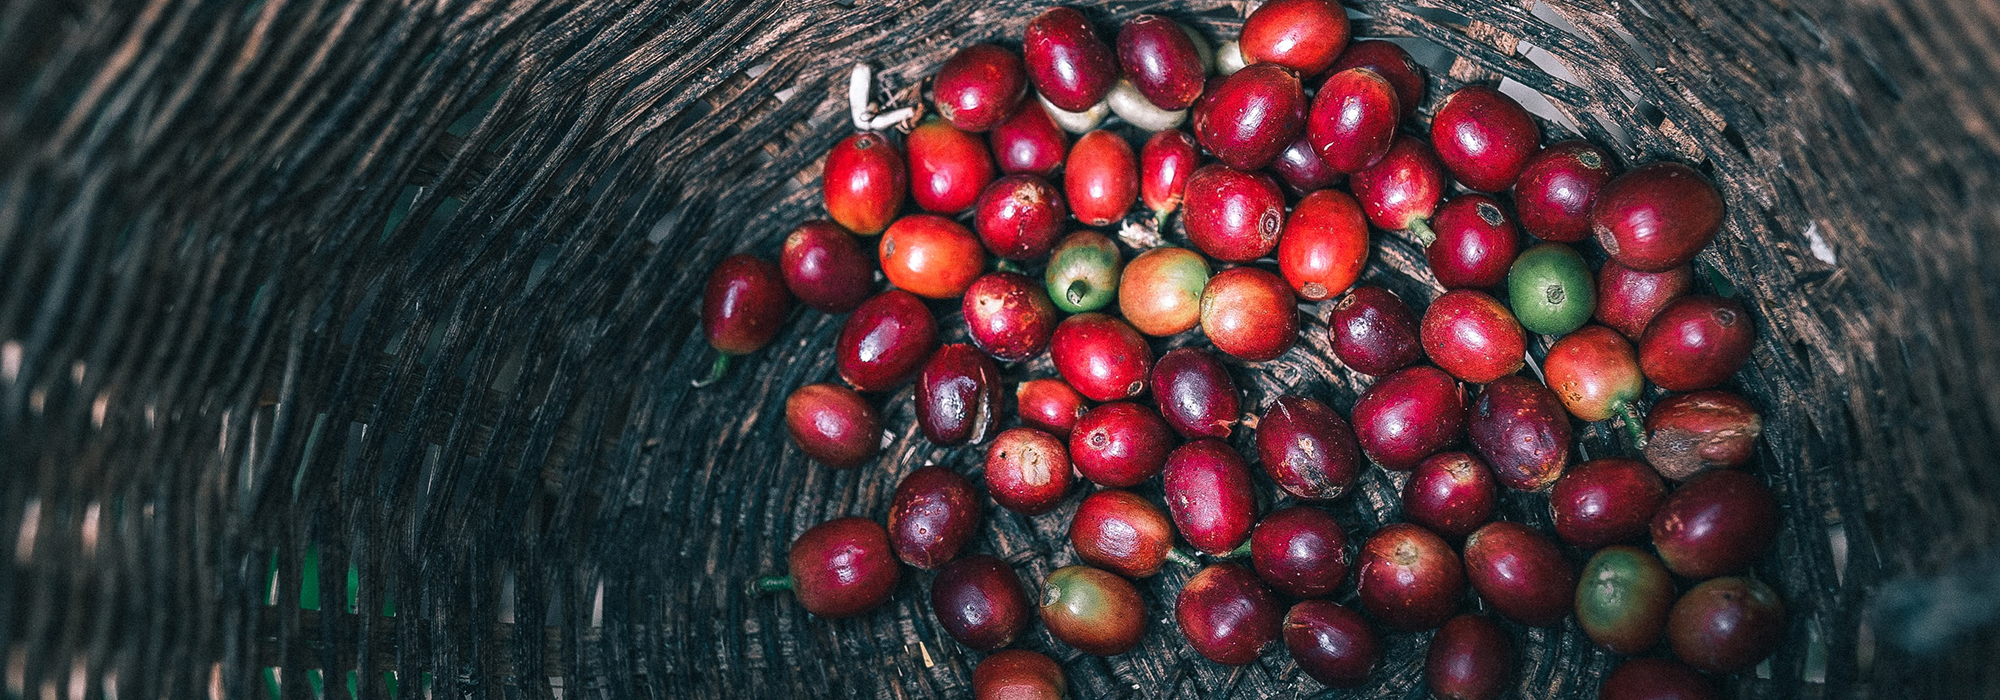
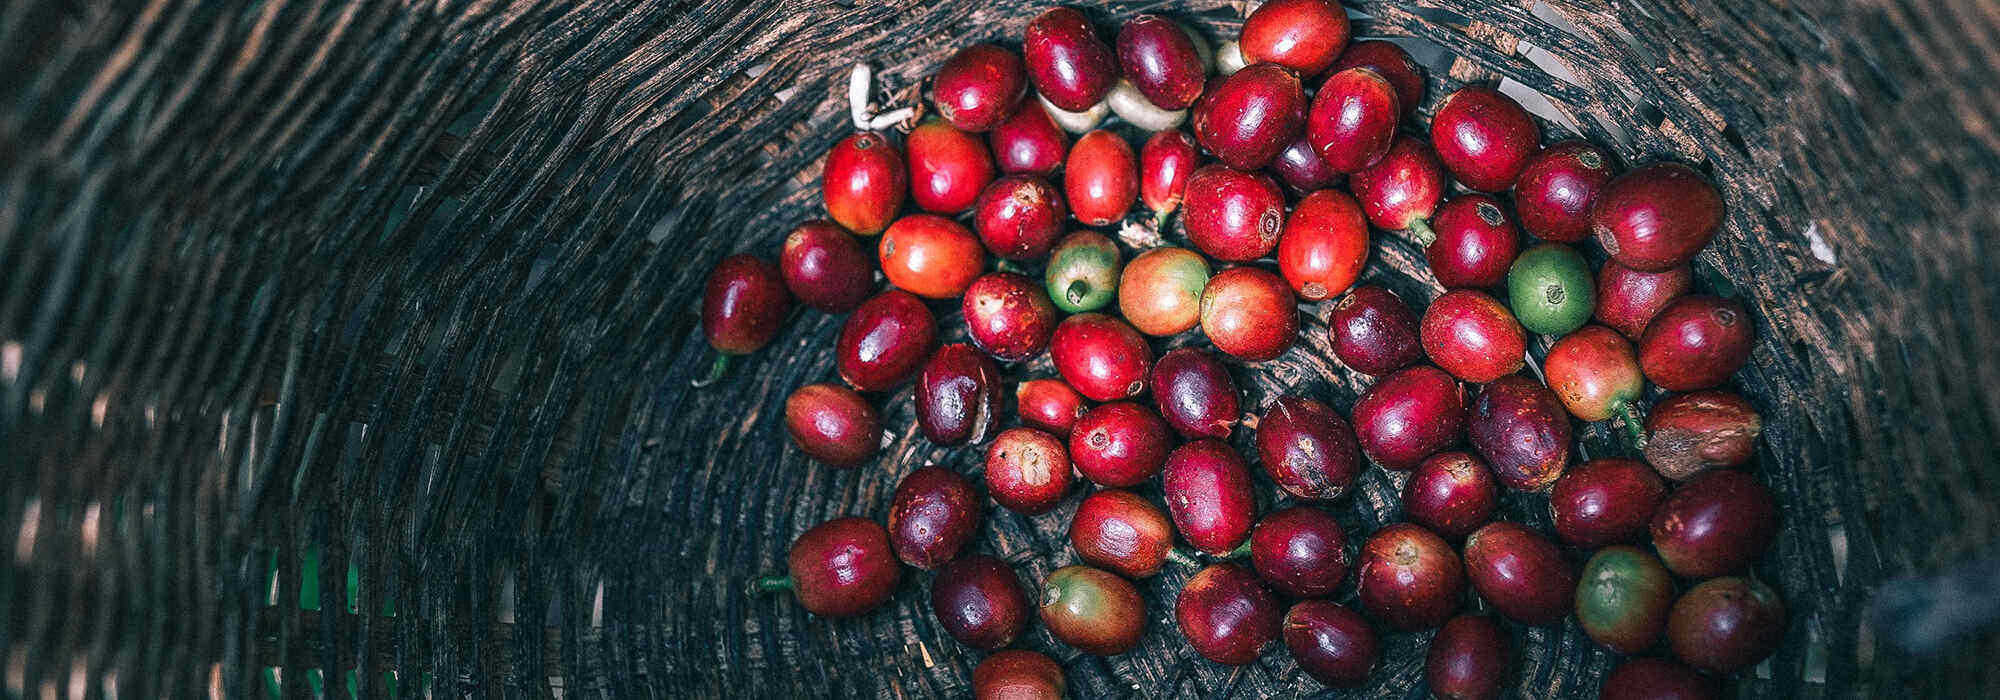
Imagenes optimizadas

diff --git a/pages/productos.html b/pages/productos.html
@@ -88,7 +88,7 @@
                         </div>
                         <div class="col-12 col-md-6 col-xxl-3">
                             <div class="card text-bg-ligth text-center shadow p-3 bg-body rounded-4">
-                                <img src="../img/cafeteramoka.png" class="card-img-top" alt="Cafetera chemex">
+                                <img src="../img/cafeteramoka.png" class="card-img-top" alt="Cafetera Moka">
                                     <div class="card-body">
                                         <h3 class="card-title">Cafetera Moka</h3>
                                         <p class="card-text">La clásica cafetera Moka Italiana. Material: Acero Inoxidable.</p>

diff --git a/scss/sections/_index.scss b/scss/sections/_index.scss
@@ -6,7 +6,7 @@
 .banner{
     width: 100%;
     height: 100vh;
-    background-image: url("../img/4.png");
+    background-image: url("../img/4.jpg");
     @include background_effect;
     display: flex;
     flex-direction: row;
@@ -66,5 +66,3 @@
         }
         }
     }
-
-

diff --git a/css/style.css b/css/style.css
@@ -204,7 +204,7 @@ p {
 .banner {
   width: 100%;
   height: 100vh;
-  background-image: url("../img/4.png");
+  background-image: url("../img/4.jpg");
   background-attachment: fixed;
   background-repeat: no-repeat;
   background-position: center;
